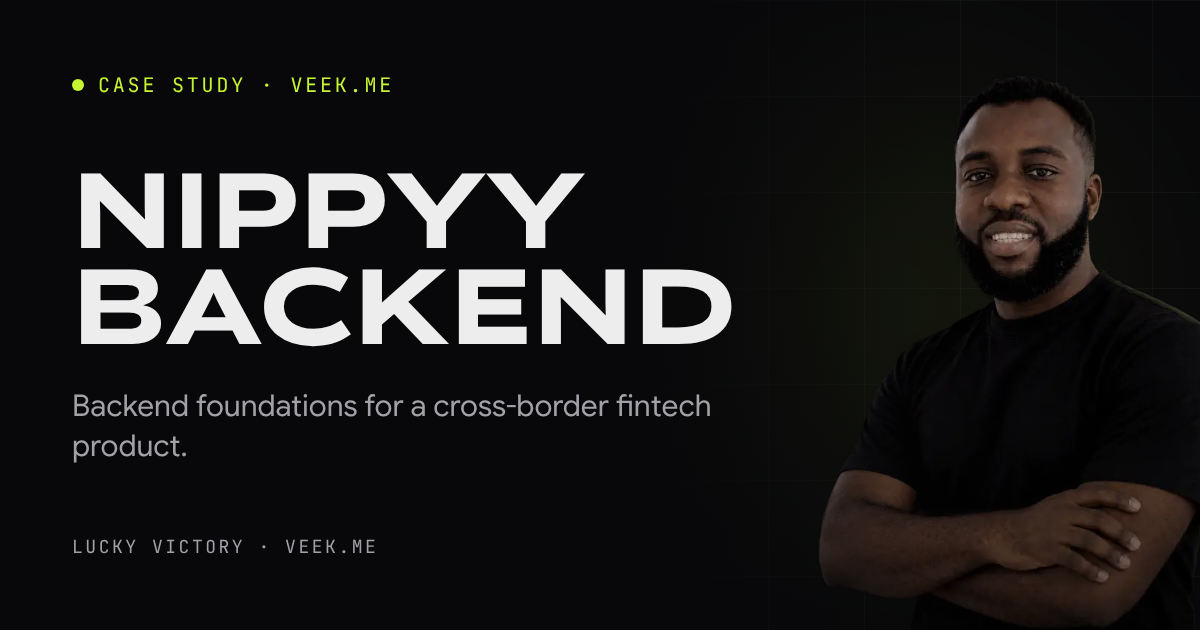
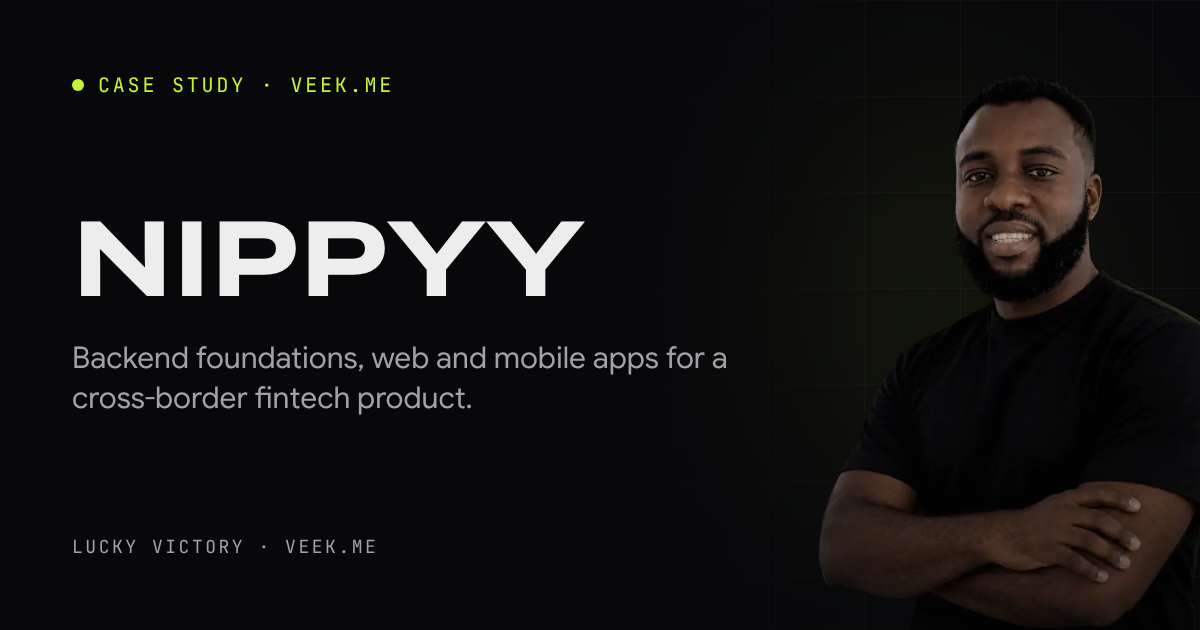
Rename the Nippyy case study title to 'Nippyy'; steadier case-study e2e
- Title, OG card and PRD now say 'Nippyy' (URL stays /work/nippyy-backend)
- e2e: centre the DriftWatch card and wait for scrolling to settle before
  clicking, instead of clicking mid-scroll

Claude-Session: https://claude.ai/code/session_01CXYo58pnNge62BKJg51bdq

Changed region(s): [[0.0617, 0.2714, 0.6167, 0.6635], [0.0617, 0.6937, 0.1542, 0.7238]]

diff --git a/tests/e2e/navigation.spec.ts b/tests/e2e/navigation.spec.ts
@@ -13,13 +13,20 @@ test("dock appears after the hero and jumps to sections", async ({ page }) => {
 
 test("project card opens its case study", async ({ page }) => {
   await page.goto("/");
-  await page.locator("#work").scrollIntoViewIfNeeded();
-  // On desktop the sticky index panel shows the active card's link; scroll until DriftWatch is active.
+  // Centre the DriftWatch card so it is the active one (on desktop the sticky index panel shows
+  // the active card's link), then wait for smooth scrolling to settle before clicking.
+  await page
+    .locator('[data-project-card="2"]')
+    .evaluate((card) => card.scrollIntoView({ block: "center" }));
   const caseStudyLink = page.getByRole("link", { name: /Read case study: DriftWatch/ });
-  await expect(async () => {
-    if (!(await caseStudyLink.isVisible())) await page.mouse.wheel(0, 300);
-    await expect(caseStudyLink).toBeVisible({ timeout: 500 });
-  }).toPass({ timeout: 20_000 });
+  await expect(caseStudyLink).toBeVisible();
+  await page.waitForFunction(
+    () =>
+      new Promise((resolve) => {
+        const startY = window.scrollY;
+        setTimeout(() => resolve(window.scrollY === startY), 300);
+      }),
+  );
   await caseStudyLink.click();
   await expect(page).toHaveURL(/\/work\/driftwatch$/);
   await expect(page.getByRole("heading", { level: 1, name: "DriftWatch" })).toBeVisible();

diff --git a/tests/e2e/no-javascript.spec.ts b/tests/e2e/no-javascript.spec.ts
@@ -14,13 +14,7 @@ test.describe("without JavaScript (PRD §2.3, §12.3)", () => {
     }
     await expect(page.getByText("Articles published")).toBeVisible();
     await expect(page.getByRole("heading", { name: "Things I've built" })).toBeVisible();
-    for (const title of [
-      "Zia",
-      "Afriex developer ecosystem",
-      "DriftWatch",
-      "Cutroom",
-      "Nippyy backend",
-    ]) {
+    for (const title of ["Zia", "Afriex developer ecosystem", "DriftWatch", "Cutroom", "Nippyy"]) {
       await expect(page.getByRole("heading", { level: 3, name: title })).toBeVisible();
     }
     await expect(page.getByText(/I like the unglamorous parts/)).toBeVisible();

diff --git a/docs/prd.md b/docs/prd.md
@@ -158,7 +158,7 @@ Reference: `docs/design/hero-mock.png` (rough mock with the real graded portrait
 
 **Mobile:** no stacking. Each project is a block: media card, then title, summary, tags and link.
 
-**Content:** the five featured projects in §10.1, in this order: Zia, Afriex developer ecosystem, DriftWatch, Cutroom, Nippyy backend. Below the stack, a compact **Experiments** grid (3 columns, text-only cards with a mono label): pii-mask, Vetit, hymem, FluxMedia, MediWatch, Claude skills (KlozBuy removed at Lucky's request, 2026-10-28).
+**Content:** the five featured projects in §10.1, in this order: Zia, Afriex developer ecosystem, DriftWatch, Cutroom, Nippyy. Below the stack, a compact **Experiments** grid (3 columns, text-only cards with a mono label): pii-mask, Vetit, hymem, FluxMedia, MediWatch, Claude skills (KlozBuy removed at Lucky's request, 2026-10-28).
 
 **Motion:** `stack-cards`, `index-crossfade`, `cursor-label` ("View case study"), `card-to-case-study` (View Transition on click).
 
@@ -621,7 +621,7 @@ Never invent numbers. Every metric shown on the site needs a `source` (§10.5). 
 - Media: a real Cutroom-rendered video as the case-study loop. This is also the most visual project, so it should have the strongest media.
 - Domain `cutroom.tech` planned; link only once live.
 
-**05 · Nippyy backend** (`/work/nippyy-backend`)
+**05 · Nippyy** (`/work/nippyy-backend`)
 - Tagline: Backend foundations for a cross-border fintech product.
 - What to show (Fastify + TypeScript): an access-control module combining RBAC, ABAC and maker-checker approvals across nine fintech roles; NIBSS-compliant session ID and transaction reference utilities validated against real transaction samples (including spec discrepancies found); correlation IDs for distributed tracing; integrations with Afriex and 9PSB.
 - Private repo: diagrams and short sanitised code excerpts only. **[Lucky]** confirm what can be shown publicly.
